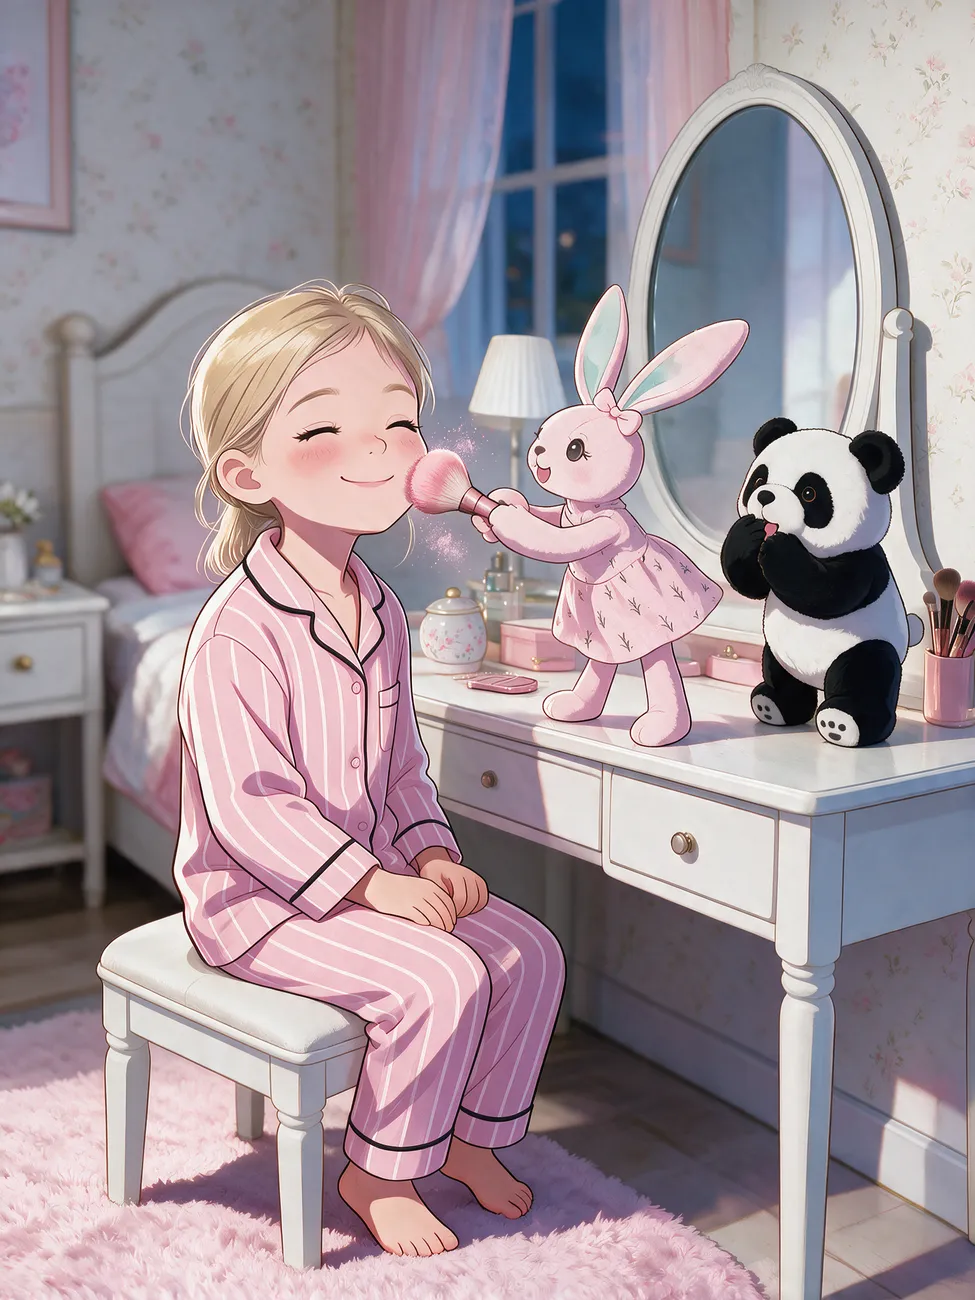
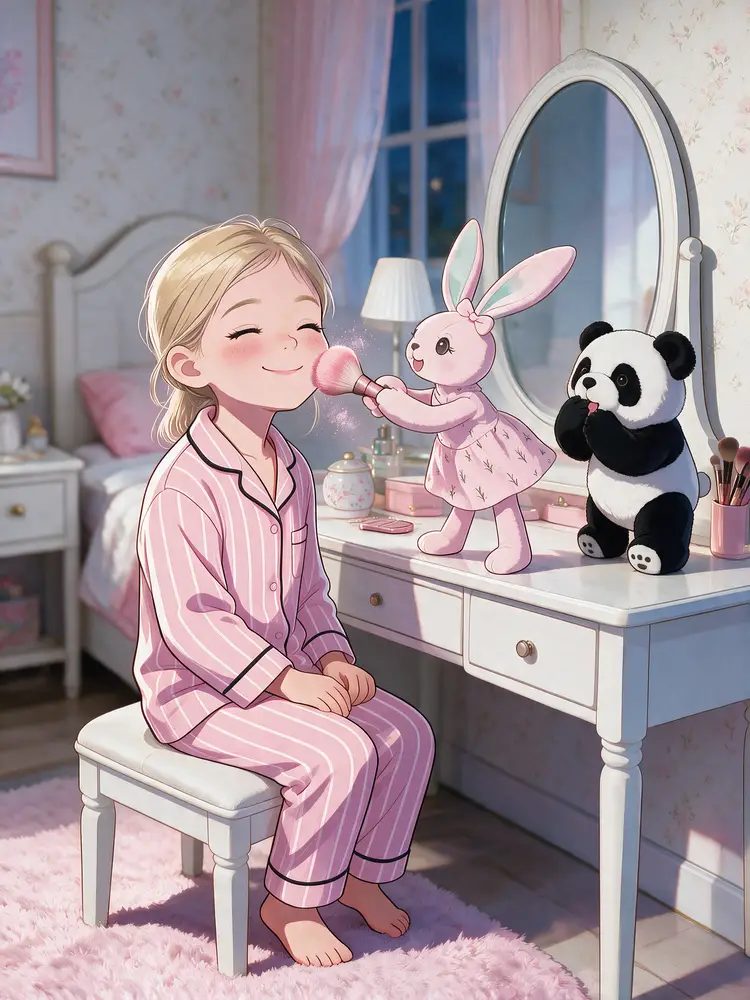
Сказочная мастерская: /skazki/ (36 файлов)

Changed region(s): [[0.368, 0.651, 0.3987, 0.682], [0.2147, 0.434, 0.2453, 0.465]]

diff --git a/skazki/index.html b/skazki/index.html
@@ -66,7 +66,7 @@ h1, h2, h3 { letter-spacing: 0; }
   .s-hero__photo { flex: 1; display: flex; flex-direction: column; min-height: 150px; margin-top: 22px; position: relative; }
   .s-hero__photo figcaption { position: absolute; left: 1px; right: 1px; bottom: 1px; margin: 0; padding: 26px 14px 10px; border-radius: 0 0 var(--r) var(--r);
     background: linear-gradient(transparent, rgb(6 10 30 / .82)); color: #eef0fa; font-size: .8rem; }
-  .s-hero__photo img { position: absolute; inset: 0; width: 100%; height: 100%; aspect-ratio: auto; }
+  .s-hero__photo .k-covers { position: absolute; inset: 0; aspect-ratio: auto; }
 }
 .s-section__head h2::before { content: "✦"; color: var(--c-accent); font-size: .55em; vertical-align: .35em; margin-right: .45em; }
 .s-widget, .s-steps__item, .s-promises li, .s-incl > div, .s-faq details, .s-contacts { background: rgb(21 33 77 / .72); -webkit-backdrop-filter: blur(6px); backdrop-filter: blur(6px); border: 1px solid var(--hair); }
@@ -157,8 +157,9 @@ html::-webkit-scrollbar-corner { background: transparent; }
   box-shadow: 0 0 14px -2px rgb(247 201 85 / .6), inset 0 0 10px -4px rgb(247 201 85 / .45); transition: background-color .6s ease, color .6s ease, box-shadow .6s ease; }
 .s-contacts__actions .s-btn.k-on, .s-contacts__actions .s-btn:hover { background: var(--c-accent); color: var(--c-accent-ink); box-shadow: 0 0 24px -4px rgb(247 201 85 / .75); }
 @media (max-width: 640px) { .s-contacts__actions { grid-template-columns: 1fr; } }
-.s-hero__photo img { aspect-ratio: 4 / 3; transition: opacity .22s ease; }
-.s-hero__photo img.k-fade { opacity: 0; }
+.k-covers { position: relative; display: block; aspect-ratio: 4 / 3; border-radius: var(--r); overflow: hidden; }
+.s-hero__photo .k-covers img { position: absolute; inset: 0; width: 100%; height: 100%; object-fit: cover; aspect-ratio: auto; border-radius: var(--r); opacity: 0; transition: opacity .35s ease; }
+.s-hero__photo .k-covers img.is-on { opacity: 1; }
 .s-hero__photo figcaption { margin-top: 10px; }
 @media (max-width: 960px) { .s-hero__photo { display: block; margin-top: 22px; } }
 @media (max-width: 900px) { .k-ex { grid-template-columns: repeat(2, 1fr); } .k-ex li:first-child { grid-column: 1 / -1; } .k-ex li:first-child img { aspect-ratio: 4 / 3; object-position: 50% 30%; } }
@@ -199,16 +200,15 @@ document.addEventListener("click", (e) => {
   const c = e.target.closest("[data-k-close]"); if (c) { c.closest("dialog")?.close(); return; }
   if (e.target.tagName === "DIALOG") e.target.close();
 });
-// смена обложки по стилю
+// смена обложки по стилю: все обложки уже загружены и лежат друг на друге, переключаем видимость
 document.addEventListener("DOMContentLoaded", () => {
   const fig = document.querySelector("[data-k-covers]"); if (!fig) return;
-  const covers = JSON.parse(fig.dataset.kCovers), img = fig.querySelector("img"), cap = fig.querySelector("figcaption");
-  addEventListener("load", () => covers.forEach(([f]) => { new Image().src = "assets/" + f + ".webp"; }));
+  const covers = JSON.parse(fig.dataset.kCovers), imgs = fig.querySelectorAll(".k-covers img"), cap = fig.querySelector("figcaption");
   document.addEventListener("change", (e) => {
     if (e.target.name !== "stil") return;
-    const [f, st, title, pos] = covers[+e.target.value] || covers[1];
-    img.classList.add("k-fade");
-    setTimeout(() => { img.src = "assets/" + f + ".webp"; img.style.objectPosition = pos; img.alt = "Обложка сказки «" + title + "», стиль «" + st + "»"; cap.textContent = "Стиль «" + st + "» · сказка «" + title + "»"; img.classList.remove("k-fade"); }, 220);
+    const n = covers[+e.target.value] ? +e.target.value : 1, [, st, title] = covers[n];
+    imgs.forEach((im, i) => im.classList.toggle("is-on", i === n));
+    cap.textContent = "Стиль «" + st + "» · сказка «" + title + "»";
   });
 });
 // «мультфильм 3d» в сообщении: шаблон переводит выбор в нижний регистр
@@ -241,7 +241,7 @@ document.addEventListener("click", async (e) => {
       <p class="s-lead">Пишу историю с нуля: имя, внешность, любимая игрушка и ваш повод. Сначала присылаю готовую сказку с пометкой «образец», а оплачиваете, только когда она вам понравилась.</p>
       <ul class="s-ticks"><li>Без предоплаты</li><li>Образец через сутки</li><li>Герой похож на ребенка</li></ul>
       
-      <figure class="s-hero__photo" data-k-covers='[["st-akvarel","Акварель","Варя и добрая ночь","50% 62%"],["hero","Мультфильм 3D","Ева и северное сияние","50% 62%"],["st-sovetskaya","Как в советских книжках","Соня и звездочка Деда Мороза","50% 62%"],["st-anime","Мягкое аниме","Кристина и пять звездочек","50% 38%"]]'><img class="" src="assets/hero.webp" alt="Обложка сказки «Ева и северное сияние»: девочка в розовой куртке едет на санях с хаски под северным сиянием" decoding="async" style="object-position:50% 62%"><figcaption>Стиль «Мультфильм 3D» · сказка «Ева и северное сияние»</figcaption></figure>
+      <figure class="s-hero__photo" data-k-covers='[["st-akvarel","Акварель","Варя и добрая ночь","50% 62%"],["hero","Мультфильм 3D","Ева и северное сияние","50% 62%"],["st-sovetskaya","Как в советских книжках","Соня и звездочка Деда Мороза","50% 62%"],["st-anime","Мягкое аниме","Кристина и пять звездочек","50% 38%"]]'><span class="k-covers"><img class="" src="assets/st-akvarel.webp" alt="Обложка сказки «Варя и добрая ночь», стиль «Акварель»" style="object-position:50% 62%" fetchpriority="low" decoding="async"><img class="is-on" src="assets/hero.webp" alt="Обложка сказки «Ева и северное сияние», стиль «Мультфильм 3D»" style="object-position:50% 62%" fetchpriority="high" decoding="async"><img class="" src="assets/st-sovetskaya.webp" alt="Обложка сказки «Соня и звездочка Деда Мороза», стиль «Как в советских книжках»" style="object-position:50% 62%" fetchpriority="low" decoding="async"><img class="" src="assets/st-anime.webp" alt="Обложка сказки «Кристина и пять звездочек», стиль «Мягкое аниме»" style="object-position:50% 38%" fetchpriority="low" decoding="async"></span><figcaption>Стиль «Мультфильм 3D» · сказка «Ева и северное сияние»</figcaption></figure>
     </div>
     <div class="s-hero__widget" id="widget"><form class="s-widget" data-s-calc data-base="0" data-min="0" data-min-note="минимальный заказ" data-per="{}" data-message="Здравствуйте! Хочу заказать сказку: {выбор}. Стоимость {итого}. С чего начнем?" onsubmit="return false">
       <h2 class="s-widget__title">Собрать сказку</h2>
